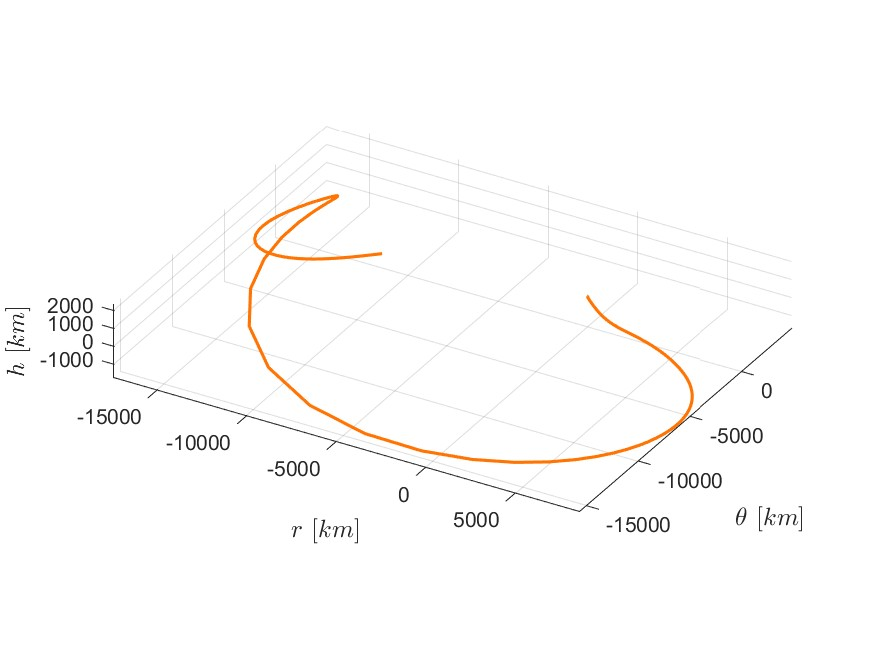
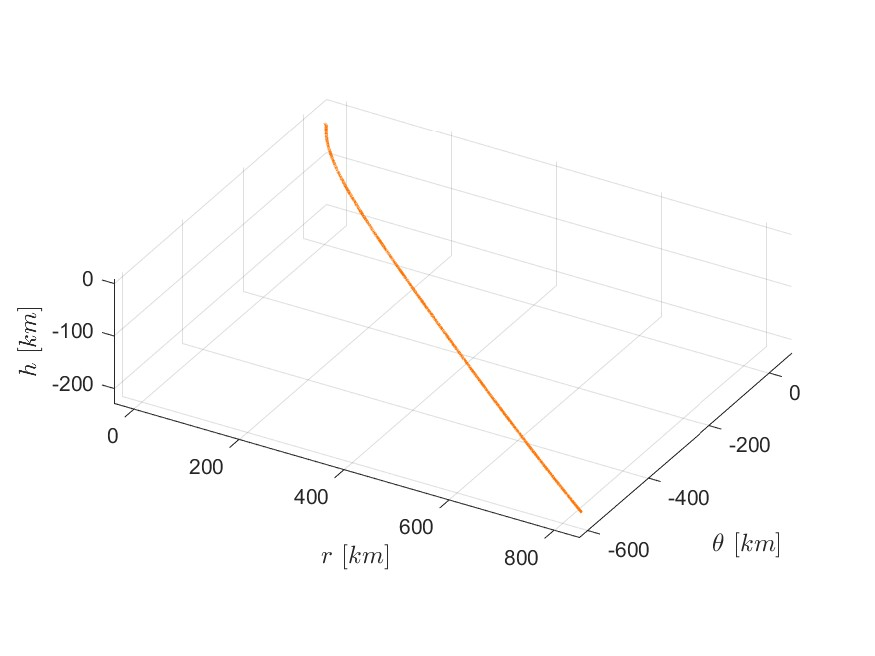
final commit

diff --git a/main.m b/main.m
@@ -11,7 +11,7 @@ addpath('Data/Materials/')
 
 % Introduce Options Structure
 options = struct('name', "Progator Options");
-options.saveplots = true;
+options.saveplots = false;
 
 
 %% Hyperparameters and Settings
@@ -42,8 +42,8 @@ RHO0_LVLH = [5e-2, 5e-2, 5e-2, 1e-3, 1e-3, 1e-3]';      % km, km/s
 RHO0_LVLH = [RHO0_LVLH(1:3)/DU; RHO0_LVLH(4:6)/DU*TU];
 
 % Define the n° of points for the Interpolation
-options.Npoints = 1000;
-options.Nperiods = 1.1;         % to set the final time
+options.Npoints = 100000;
+options.Nperiods = 1.1/3;         % to set the final time
 
 % Interpolate the Ephemeris and Retrieve Target's Initial State
 [X0t_MCI, COE0t, MEE0t, EarthPPsMCI, DSGPPsMCI, SunPPsMCI, MoonPPsECI, time, t0, tf, options.Npoints] = ...
